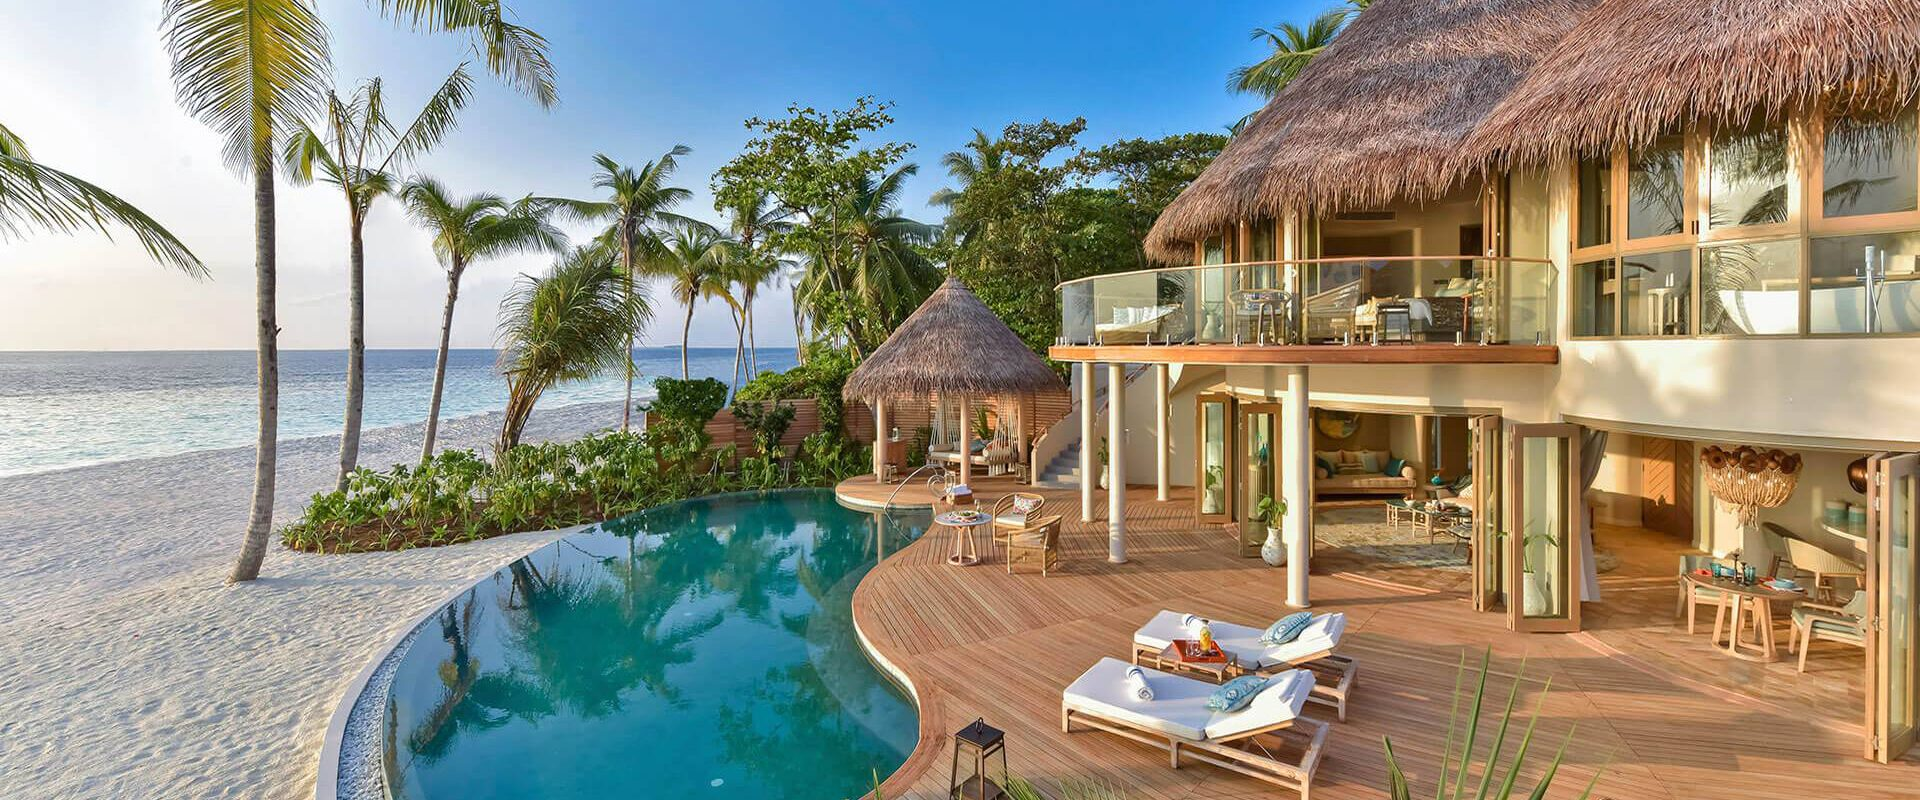
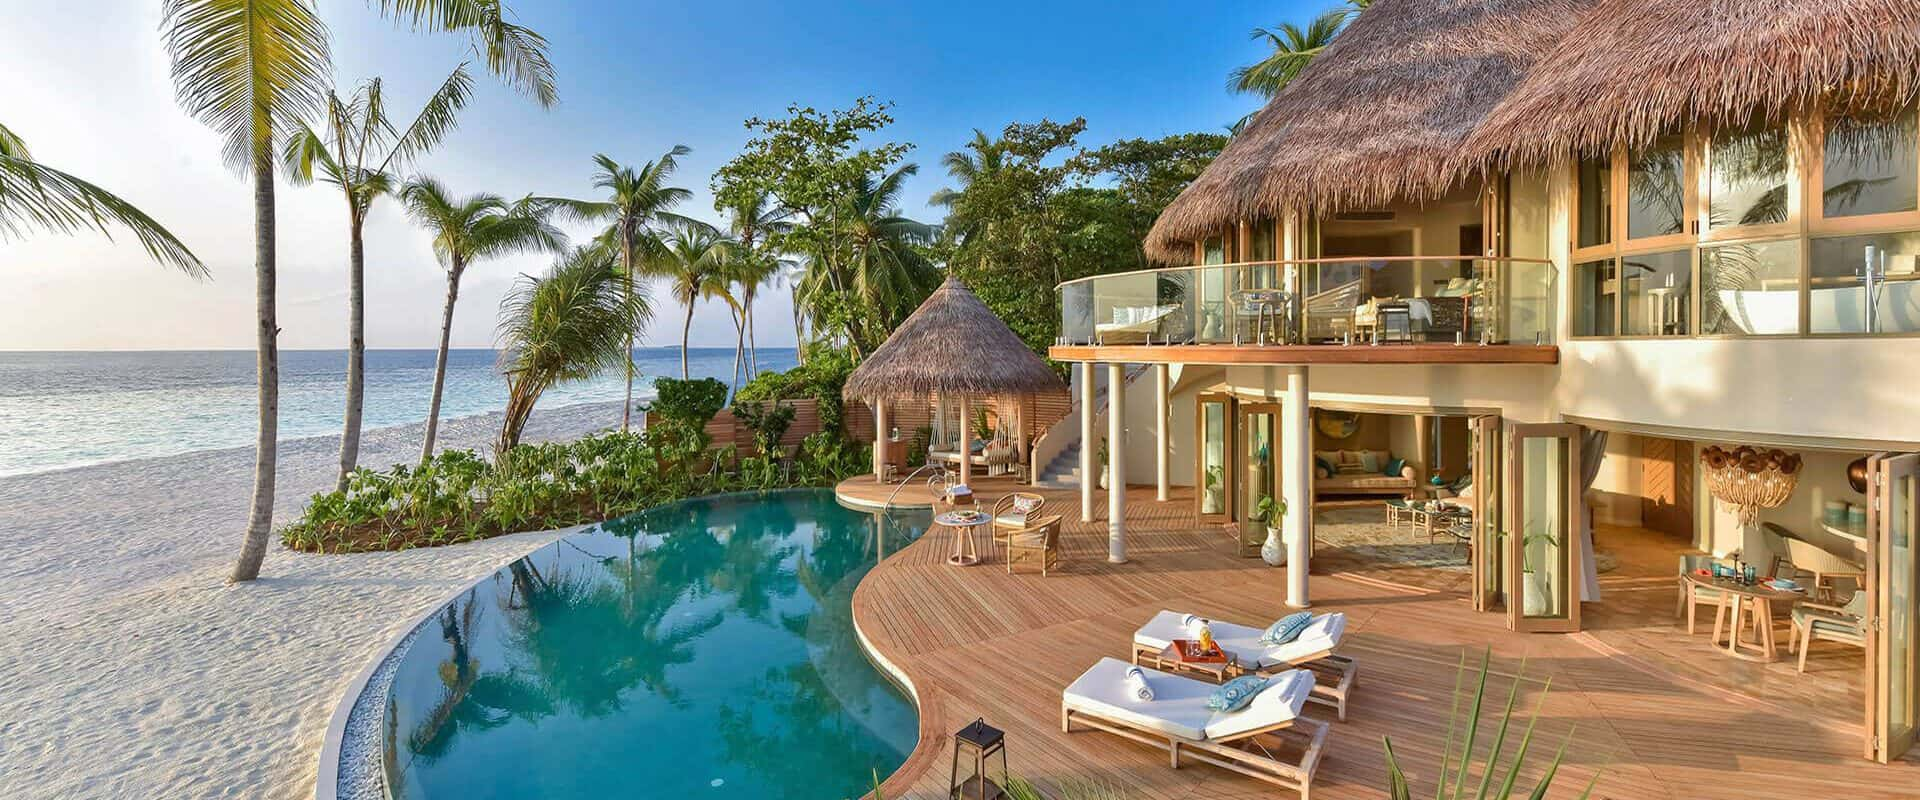
upload lowest photo for performance

diff --git a/src/Pages/Outer-turism-slug/slug.jsx b/src/Pages/Outer-turism-slug/slug.jsx
@@ -1,4 +1,4 @@
-import React from "react";
+import React, {useEffect} from "react";
 import ReactStars from "react-rating-stars-component";
 import Slider from "react-slick";
 // import { SliderImgWrapper } from "../../Home/HomeStyle.styled";
@@ -13,6 +13,11 @@ import img4 from "../../assets/photo/sydney.jpg";
 import img5 from "../../assets/photo/packageSam.jpg";
 
 const OuterTurismSlug = () => {
+  useEffect(() => {
+    window.scrollTo({
+      top: 0,
+    });
+  }, []);
   const settings = {
     dots: false,
     fade: false,

diff --git a/src/Home/Home.jsx b/src/Home/Home.jsx
@@ -1,4 +1,4 @@
-import React from "react";
+import React, {useEffect} from "react";
 import "slick-carousel/slick/slick.css";
 import "slick-carousel/slick/slick-theme.css";
 import {
@@ -36,6 +36,11 @@ import HomeCall from "../Components/HomeCallBack/HomeCall";
 import { HomeCallWrap } from "../Components/HomeCallBack/HomeCallStyle";
 
 const Home = () => {
+  useEffect(() => {
+    window.scrollTo({
+      top: 0,
+    });
+  }, []);
   let swiperData = [
     {
       id: 1,

diff --git a/src/Pages/InnerTurizm/InnerTurizm.jsx b/src/Pages/InnerTurizm/InnerTurizm.jsx
@@ -1,4 +1,4 @@
-import React from "react";
+import React, {useEffect} from "react";
 import SecondCard from "../../Components/SecondCard";
 import {
   GlobalContainer,
@@ -9,6 +9,11 @@ import img2 from "../../assets/photo/card.jpg";
 import { InnerContainer } from "./innerTurizmStyle.styled";
 
 const InnerTurizm = () => {
+  useEffect(() => {
+    window.scrollTo({
+      top: 0,
+    });
+  }, []);
   const data = [
     {
       id: "samarqand",

diff --git a/src/Pages/OuterTurizm/OuterTurizm.jsx b/src/Pages/OuterTurizm/OuterTurizm.jsx
@@ -1,4 +1,4 @@
-import React from "react";
+import React, {useEffect} from "react";
 import Destination from "../../Components/Destination/Destination";
 import {
   GlobalContainer,
@@ -12,6 +12,11 @@ import background5 from "../../assets/photo/sma.jpg";
 import {OuterContainer} from "./OuterStyle"
 
 const OuterTurizm = () => {
+  useEffect(() => {
+    window.scrollTo({
+      top: 0,
+    });
+  }, []);
   const array = [
     {
       id: 1,

diff --git a/src/Pages/Discount/Discount.jsx b/src/Pages/Discount/Discount.jsx
@@ -1,4 +1,4 @@
-import React from "react";
+import React, {useEffect} from "react";
 import {
   GlobalContainer,
   InnerAndOuterContainer,
@@ -8,6 +8,11 @@ import img from "../../assets/photo/sydney.jpg";
 import { DiscountContainer } from "./DiscountStyle.style";
 
 const Discount = () => {
+  useEffect(() => {
+    window.scrollTo({
+      top: 0,
+    });
+  }, []);
   const data = [
     {
       id: 1,

diff --git a/src/Pages/Contact/Contact.jsx b/src/Pages/Contact/Contact.jsx
@@ -1,11 +1,16 @@
 /* eslint-disable react/jsx-no-comment-textnodes */
-import React from "react";
+import React, { useEffect } from "react";
 import {
   GlobalContainer,
   InnerAndOuterContainer,
 } from "../../styles/GlobalStyle.styled";
 
 const Contact = () => {
+  useEffect(() => {
+    window.scrollTo({
+      top: 0,
+    });
+  }, []);
   return (
     <>
       <InnerAndOuterContainer>

diff --git a/src/Pages/Inner-turism-slug/slug.jsx b/src/Pages/Inner-turism-slug/slug.jsx
@@ -1,4 +1,4 @@
-import React from "react";
+import React, {useEffect} from "react";
 import { useParams } from "react-router-dom";
 import {
   GlobalContainer,
@@ -6,6 +6,11 @@ import {
 } from "../../styles/GlobalStyle.styled";
 
 function InnerSlug() {
+  useEffect(() => {
+    window.scrollTo({
+      top: 0,
+    });
+  }, []);
   const { slug } = useParams();
   return (
     <>

diff --git a/src/Pages/NotFound/index.jsx b/src/Pages/NotFound/index.jsx
@@ -1,9 +1,14 @@
-import React from "react";
+import React, {useEffect} from "react";
 import {
   GlobalContainer,
   InnerAndOuterContainer,
 } from "../../styles/GlobalStyle.styled";
 const Index = () => {
+  useEffect(() => {
+    window.scrollTo({
+      top: 0,
+    });
+  }, []);
   return (
     <InnerAndOuterContainer>
       <GlobalContainer>

diff --git a/src/App.jsx b/src/App.jsx
@@ -11,7 +11,7 @@ function App() {
     setLoading(true);
     setTimeout(() => {
       setLoading(false);
-    }, 3000);
+    }, 1000);
   }, []);
 
   return (

diff --git a/src/Components/Modal/index.jsx b/src/Components/Modal/index.jsx
@@ -1,0 +1,11 @@
+import React from 'react';
+
+const Modal = () => {
+  return (
+    <div>
+      
+    </div>
+  );
+}
+
+export default Modal;
